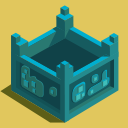
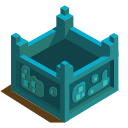
Level up the towers with updating building images

diff --git a/protypes/proto_1/js/objects.js b/protypes/proto_1/js/objects.js
@@ -32,25 +32,42 @@ function tower(space_id) {
         this.x = game.spaces[this.id].x,
         this.y = game.spaces[this.id].y,
         this.type = 'wall',
+        this.level = 1,
         this.color = '#000000',
         this.hoverColor = '#550000',
         this.range = 2,
 
         this.upgrade = function () {
+
+            this.level++
+
             if (this.type === 'wall') {
                 this.type = 'tower'
                 this.color = '#ff3333'
                 this.hoverColor = '#ff8888'
             }
+
             this.peer()
         },
         this.render = function () {
-            if (this.id === game.hoverTile) {
-                ctx.fillStyle = this.color;
-            } else {
-                ctx.fillStyle = this.hoverColor;
+
+            var img = new Image()
+            if (this.level === 1) {
+                img.src = 'gfx/buildings/tower_1_brown.png'
             }
-            ctx.fillRect(this.x, this.y, game.tileSize, game.tileSize);
+            if (this.level >= 2) {
+                img.src = 'gfx/buildings/tower_2.png'
+            }
+            if (this.level >= 3) {
+                img.src = 'gfx/buildings/tower_3.png'
+            }
+
+
+            if (this.id === game.hoverTile) {
+                ctx.drawImage(img, this.x, this.y, game.tileSize, game.tileSize)
+            } else {
+                ctx.drawImage(img, this.x, this.y, game.tileSize, game.tileSize)
+            }
         },
         this.wake = function () {
             //Detect visible tiles( spaces )
@@ -65,11 +82,12 @@ function tower(space_id) {
 }
 
 //Unit Base Object
-function unit(unit_id, space_id, type, x, y, speed, maxHealth, health, damage, ac) {
+function unit(unit_id, space_id, x, y, type, speed) {
 
     this.id = unit_id,
         this.space = space_id,
         this.type = type,
+        this.color = '#ff00ff',
         this.x = x,
         this.y = y,
         this.target_y = x,
@@ -113,4 +131,8 @@ function unit(unit_id, space_id, type, x, y, speed, maxHealth, health, damage, a
             //Rotation Trig Logic
             //Sprite Shift
         }
+    this.render = function () {
+        ctx.fillStyle = this.color;
+        ctx.arc(100, 75, 50, 0, 2 * Math.PI);
+    }
 }

diff --git a/protypes/proto_1/js/logic.js b/protypes/proto_1/js/logic.js
@@ -14,10 +14,14 @@ var game = {
     tileSize: 32,
     spaces: [],
     towers: [],
+    units: [],
     hoverTile: 0,
+    boardWidth: 0,
+    boardHeight: 0,
     createBoard: function (boardWidth, boardHeight, tileSize) {
-
         var boardCount = 0
+        game.boardWidth = boardWidth
+        game.boardHeight = boardHeight
         game.tileSize = tileSize
 
         for (var j = 0; j < boardHeight; j++) {
@@ -26,6 +30,13 @@ var game = {
                 boardCount++
             }
         }
+    },
+    addTower: function () {
+        game.spaces[game.hoverTile].build(getSpace())
+        game.spaces[game.hoverTile].developed === true
+    },
+    addUnit: function () {
+
     }
 }
 
@@ -59,7 +70,7 @@ var update = {
 var render = {
 
     background: function () {
-        ctx.fillStyle = '#008800'
+        ctx.fillStyle = '#e2c85d'
         ctx.fillRect(0, 0, w, h);
     },
     tiles: function () {
@@ -68,7 +79,7 @@ var render = {
             if (game.hoverTile === i) {
                 game.spaces[i].render('#ffffaa')
             } else {
-                game.spaces[i].render('#88ffaa')
+                game.spaces[i].render('#e2c85d')
             }
         }
 
@@ -104,7 +115,7 @@ function animate() {
 
 globalID = requestAnimationFrame(animate)
 update.window()
-game.createBoard(100, 100, 30)
+game.createBoard(16, 9, 126)
 
 
 

diff --git a/protypes/proto_1/js/detection.js b/protypes/proto_1/js/detection.js
@@ -2,8 +2,9 @@
 //Detection( UNDER CONSTRUCTION )
 
 //returns the space which the xy point is within
-function getSpace(x, y) {
-
+function getSpace() {
+    var x = event.clientX;     // Get the horizontal coordinate
+    var y = event.clientY;     // Get the vertical coordinate
     for (var i = 0; i < game.spaces.length; i++) {
         if (x > game.spaces[i].x && x < game.spaces[i].x + game.tileSize && y > game.spaces[i].y && y < game.spaces[i].y + game.tileSize) {
             return i
@@ -15,7 +16,7 @@ function getSpace(x, y) {
 function isTower(id) {
 
     for (var i = 0; i < game.towers.length; i++) {
-        if (x > game.towers[i].x && x < game.towers[i].x + game.towers[i].width && y > game.towers[i].y && y < game.towers[i].y + game.towers[i].height) {
+        if (x >= game.towers[i].x && x < game.towers[i].x + game.towers[i].width && y >= game.towers[i].y && y < game.towers[i].y + game.towers[i].height) {
             console.log('tower clicked')
             game.towers[i].upgrade()
             game.towers[i].render()

diff --git a/protypes/proto_1/js/triggers.js b/protypes/proto_1/js/triggers.js
@@ -11,8 +11,7 @@ $(canvas).on('click', function () {
     var x = event.clientX;     // Get the horizontal coordinate
     var y = event.clientY;     // Get the vertical coordinate
     if (game.spaces[game.hoverTile].developed === false) {
-        game.spaces[game.hoverTile].build(getSpace(x, y))
-        game.spaces[game.hoverTile].developed === true
+        game.addTower()
     } else {
         game.spaces[game.hoverTile].tower.upgrade()
     }
